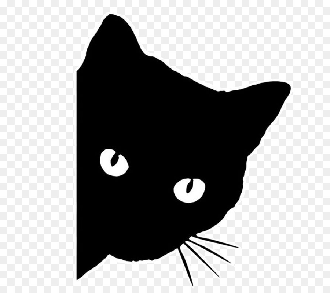
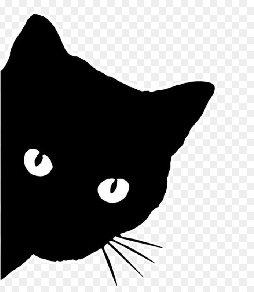
fix: change img to div

diff --git a/constants.js b/constants.js
@@ -4,22 +4,25 @@ export const source = [];
 for (let i = -1; i < 23; i++) {
   if (i === -1 || i === 0) {
     let imgString = `<img src ='/assets/silhouette-left.png' class='img-styles' >`;
-    let imgElement = document.createElement("img");
-    imgElement.src = `/assets/silhouette-left.png`;
+    let imgElement = document.createElement("div");
+    imgElement.style.background = `url(assets/silhouette-left.png)`;
+    imgElement.style.backgroundSize = `cover`;
     imgElement.classList.add("img-styles");
     let item = { imgElement, imgString };
     source.push(item);
   } else if (i === 21 || i === 22) {
     let imgString = `<img src ='/assets/silhouette-right.png' class='img-styles' >`;
-    let imgElement = document.createElement("img");
-    imgElement.src = `/assets/silhouette-right.png`;
+    let imgElement = document.createElement("div");
+    imgElement.style.background = `url(assets/silhouette-right.png)`;
+    imgElement.style.backgroundSize = `cover`;
     imgElement.classList.add("img-styles");
     let item = { imgElement, imgString };
     source.push(item);
   } else {
     let imgString = `<img src ='/assets/cat${i}.png' class='img-styles' >`;
-    let imgElement = document.createElement("img");
-    imgElement.src = `/assets/cat${i}.png`;
+    let imgElement = document.createElement("div");
+    imgElement.style.background = `url(/assets/cat${i}.png)`;
+    imgElement.style.backgroundSize = `100% 100%`;
     imgElement.classList.add("img-styles");
     let item = { imgElement, imgString };
     source.push(item);

diff --git a/reset-animation.js b/reset-animation.js
@@ -1,7 +1,8 @@
 export const reset = (resetFrom, size, action) => {
+  console.log(size)
   let index, resetDirection;
   resetFrom === "LEFT"
-    ? (index = 2)
+    ? (index = 1)
     : resetFrom === "RIGHT"
     ? (index = size - 3)
     : (index = Math.floor(size / 2));
@@ -19,15 +20,15 @@ export const reset = (resetFrom, size, action) => {
       resetDirection = "RIGHT";
   }
   const resetInterval = setInterval(() => {
-    if(resetDirection === "RIGHT" && index < size - 2){
+    if(resetDirection === "RIGHT" && index < (size - 2)){
+      action(index, resetDirection);
         index++;
-        action(index, resetDirection);
     }else if (resetDirection === "LEFT" && index > 1){
+      action(index, resetDirection);
         index--;
-        action(index, resetDirection);
     }
   }, 70);
-  if((resetFrom==='LEFT' && index === size - 3) || (resetFrom==='RIGHT' && index === 2) ){
+  if((resetFrom==='LEFT' && index === (size - 3)) || (resetFrom==='RIGHT' && index === 2) ){
     clearInterval(resetInterval);
     return 'reset done!';
   }

diff --git a/code.js b/code.js
@@ -2,7 +2,7 @@ import { $, source } from "/constants.js";
 import { cat_walk } from "./cat-walk.js";
 import { reset } from "./reset-animation.js";
 
-reset();
+// reset();
 // cat_walk();
 let index = Math.floor(source.length / 2);
 
@@ -22,7 +22,7 @@ function slider(state) {
       break;
     case "LAST_LEFT":
       index = source.length - 3;
-      reset("LEFT", index, sliderSwiper);
+      reset("LEFT", source.length, sliderSwiper);
       //   sliderSwiper(index, "RESET", true);
       break;
     case "LAST_RIGHT":

diff --git a/style.css b/style.css
@@ -45,7 +45,7 @@ body {
   transform-origin: 100% 100%;
 
 }
-.slide img {
+.img-styles {
   width: 100%;
   height: 100%;
   border-radius: 15%;
